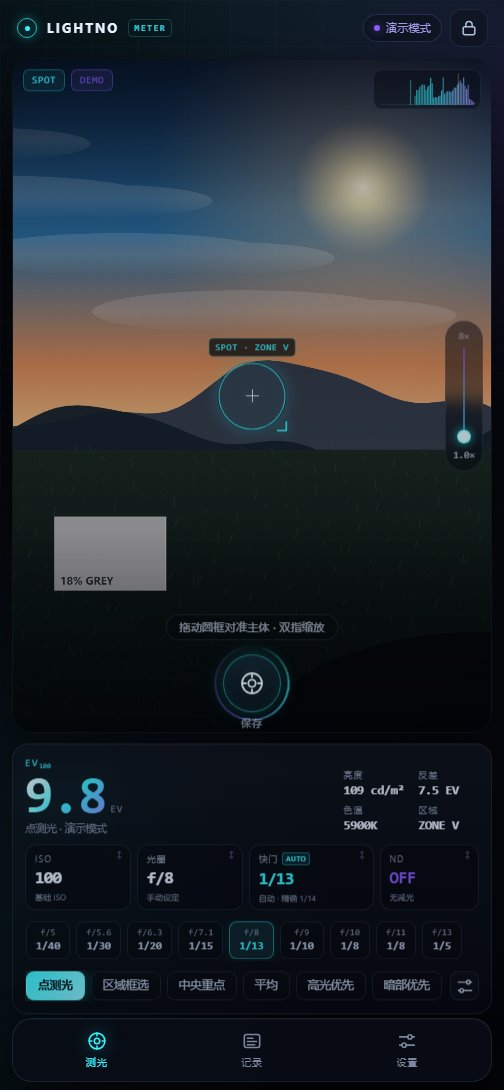
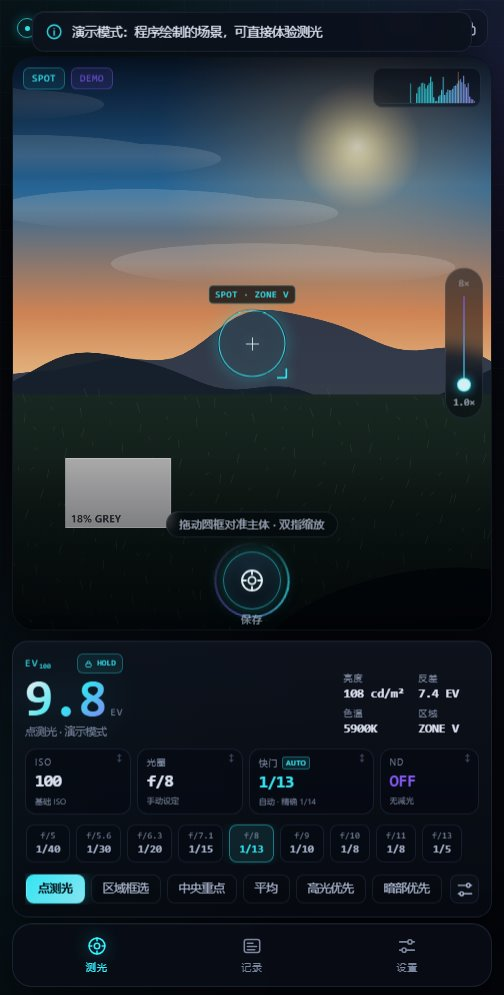
add holde

diff --git a/js/ui/meter.js b/js/ui/meter.js
@@ -82,6 +82,10 @@ const dom = {
   demoBtn: $('#btnDemo'),
   evValue: $('#evValue'),
   evSub: $('#evSub'),
+  evHold: $('#evHold'),
+  evHoldText: $('#evHoldText'),
+  evLockIcon: $('#evLockIcon'),
+  readoutPanel: $('#readoutPanel'),
   metricLum: $('#metricLum'),
   metricDr: $('#metricDr'),
   metricCct: $('#metricCct'),
@@ -171,6 +175,25 @@ function updateStatus() {
   setText(dom.statusText, sourceLabel(rt.source));
   dom.tagDemo.hidden = rt.source !== 'demo';
   dom.tagLock.hidden = !rt.locked;
+  syncHoldUI();
+}
+
+/** 同步 HOLD 视觉状态（EV 按钮 / 面板 / 顶栏锁 / 阶段标签） */
+function syncHoldUI() {
+  const locked = !!getRuntime().locked;
+  if (dom.evHold) {
+    dom.evHold.classList.toggle('is-held', locked);
+    dom.evHold.setAttribute('aria-pressed', String(locked));
+    dom.evHold.setAttribute('aria-label', locked ? '解除测光锁定' : '锁定测光读数');
+  }
+  if (dom.evHoldText) dom.evHoldText.textContent = locked ? '解除' : 'HOLD';
+  if (dom.evLockIcon) dom.evLockIcon.hidden = !locked;
+  if (dom.readoutPanel) dom.readoutPanel.classList.toggle('is-held', locked);
+  if (dom.btnLock) {
+    dom.btnLock.classList.toggle('is-held', locked);
+    dom.btnLock.setAttribute('aria-pressed', String(locked));
+    dom.btnLock.setAttribute('aria-label', locked ? '解除测光锁定' : '锁定测光');
+  }
 }
 
 function showCameraError(err) {
@@ -222,6 +245,15 @@ async function startCamera() {
     updateZoomRange();
     updateStatus();
     await applyZoom(getSettings().zoom);
+
+    if (getRuntime().locked && lockSnapshot && lockSnapshot.cameraExposure && camera.manual) {
+      try {
+        await camera.setExposure(lockSnapshot.cameraExposure);
+      } catch {
+        /* ignore */
+      }
+    }
+
     lastAe = 0;
 
     if (!result.manual) {
@@ -517,8 +549,10 @@ function onFrame(now) {
     currentZoneValue = measured.zoneValue;
   }
 
-  updateZebra(result, s);
-  drawHistogram(result, s);
+  if (!rt.locked) {
+    updateZebra(result, s);
+    drawHistogram(result, s);
+  }
   updateReadout();
   schedule();
 }
@@ -704,8 +738,11 @@ function updateReadout(force = false) {
 
   setText(dom.evValue, formatEv(ev, 1));
 
-  const lockText = locked ? ' · 已锁定' : '';
-  setText(dom.evSub, `${MODE_META[s.mode].label} · ${sourceLabel(rt.source)}${lockText}`);
+  if (locked) {
+    setText(dom.evSub, '已锁定 · 点按解除后重新测光');
+  } else {
+    setText(dom.evSub, `${MODE_META[s.mode].label} · ${sourceLabel(rt.source)}`);
+  }
 
   setText(dom.metricLum, formatLuminance(luminanceFromEv(ev)));
   dom.metricLum.classList.toggle('is-warn', data.frame.clip > 0.02);
@@ -758,7 +795,9 @@ function updateReadout(force = false) {
   setText(dom.valNdNote, nd > 0 ? `${ndDensity(nd)} 密度 · ${nd.toFixed(1)} 档` : '无减光');
 
   const clip = data.frame.clip;
-  if (clip > 0.03) {
+  if (locked) {
+    setText(dom.hudHint, 'HOLD · 移动手机不会改变读数');
+  } else if (clip > 0.03) {
     setText(dom.hudHint, `高光溢出 ${(clip * 100).toFixed(1)}% · 试试高光优先或降低相机曝光`);
   } else {
     setText(dom.hudHint, MODE_META[s.mode].hint + ' · 双指缩放');
@@ -795,18 +834,29 @@ function toggleLock() {
       toast('还没有有效读数', { type: 'warn', duration: 1800 });
       return;
     }
-    lockSnapshot = { ev: evSmooth, stats, zoneValue: currentZoneValue };
+    const ex = camera && camera.isActive ? camera.getExposure() : null;
+    lockSnapshot = {
+      ev: evSmooth,
+      stats,
+      zoneValue: currentZoneValue,
+      cameraExposure:
+        ex && Number.isFinite(ex.shutter) && Number.isFinite(ex.iso)
+          ? { shutter: ex.shutter, iso: ex.iso }
+          : null
+    };
   } else if (lockSnapshot) {
     evSmooth = lockSnapshot.ev;
     lockSnapshot = null;
+    lastAe = 0;
   }
   setRuntime({ locked: next });
-  dom.btnLock.setAttribute('aria-pressed', String(next));
   updateStatus();
   updateZone();
   updateReadout(true);
   hapticTap();
-  toast(next ? '测光已锁定 · 可以重新构图' : '已解除锁定', { duration: 1400 });
+  toast(next ? '已锁定读数 · 可以移动手机设置相机' : '已解除锁定 · 继续测光', {
+    duration: next ? 2600 : 1600
+  });
 }
 
 function handleZoneChange(patch) {
@@ -1305,6 +1355,7 @@ function initInteractions() {
   });
 
   dom.btnLock.addEventListener('click', toggleLock);
+  if (dom.evHold) dom.evHold.addEventListener('click', toggleLock);
 
   dom.modeRow.querySelectorAll('.mode').forEach((btn) => {
     btn.addEventListener('click', () => {

diff --git a/index.html b/index.html
@@ -74,7 +74,7 @@
               <div class="hud-tags">
                 <span class="tag tag--mode" id="tagMode">SPOT</span>
                 <span class="tag" id="tagZoom" hidden>1.0×</span>
-                <span class="tag tag--lock" id="tagLock" hidden>LOCK</span>
+                <span class="tag tag--lock" id="tagLock" hidden>HOLD</span>
                 <span class="tag tag--demo" id="tagDemo" hidden>DEMO</span>
               </div>
               <canvas class="hist" id="histogram" width="128" height="46" aria-hidden="true"></canvas>
@@ -124,16 +124,46 @@
             </div>
           </div>
 
-          <div class="panel panel--readout">
+          <div class="panel panel--readout" id="readoutPanel">
             <div class="readout">
-              <div class="ev">
-                <span class="ev__key">EV<sub>100</sub></span>
-                <div class="ev__line">
+              <button
+                class="ev"
+                id="evHold"
+                type="button"
+                aria-pressed="false"
+                aria-label="锁定测光读数"
+                title="锁定 / 解除当前读数"
+              >
+                <span class="ev__top">
+                  <span class="ev__key">EV<sub>100</sub></span>
+                  <span class="ev__hold" id="evHoldPill">
+                    <svg viewBox="0 0 24 24" width="9" height="9" fill="none" stroke="currentColor" stroke-width="2.2">
+                      <rect x="5" y="10.5" width="14" height="9.5" rx="2.2" />
+                      <path d="M8.2 10.5V8a3.8 3.8 0 017.6 0v2.5" stroke-linecap="round" />
+                    </svg>
+                    <i id="evHoldText">HOLD</i>
+                  </span>
+                </span>
+                <span class="ev__line">
                   <span class="ev__value" id="evValue">--.-</span>
                   <span class="ev__unit">EV</span>
-                </div>
+                  <svg
+                    class="ev__lockicon"
+                    id="evLockIcon"
+                    viewBox="0 0 24 24"
+                    width="15"
+                    height="15"
+                    fill="none"
+                    stroke="currentColor"
+                    stroke-width="2"
+                    hidden
+                  >
+                    <rect x="5" y="10.5" width="14" height="9.5" rx="2.2" />
+                    <path d="M8.2 10.5V8a3.8 3.8 0 017.6 0v2.5" stroke-linecap="round" />
+                  </svg>
+                </span>
                 <span class="ev__sub" id="evSub">正在启动相机…</span>
-              </div>
+              </button>
               <div class="metrics">
                 <div class="metric"><span>亮度</span><b id="metricLum">—</b></div>
                 <div class="metric"><span>反差</span><b id="metricDr">—</b></div>

diff --git a/css/components.css b/css/components.css
@@ -139,6 +139,13 @@
   box-shadow: 0 0 16px rgba(55, 242, 255, 0.16);
 }
 
+.icon-btn.is-held {
+  color: var(--amber);
+  border-color: rgba(255, 199, 92, 0.45);
+  background: rgba(255, 199, 92, 0.1);
+  box-shadow: 0 0 16px rgba(255, 199, 92, 0.16);
+}
+
 .icon-btn:active {
   transform: scale(0.94);
 }
@@ -170,6 +177,17 @@
   color: var(--amber);
   border-color: rgba(255, 199, 92, 0.4);
   background: rgba(255, 199, 92, 0.1);
+  animation: hold-glow 2.4s ease-in-out infinite;
+}
+
+@keyframes hold-glow {
+  0%,
+  100% {
+    box-shadow: 0 0 0 rgba(255, 199, 92, 0);
+  }
+  50% {
+    box-shadow: 0 0 14px rgba(255, 199, 92, 0.3);
+  }
 }
 
 .tag--demo {
@@ -197,6 +215,11 @@
   flex: 0 0 auto;
 }
 
+.panel--readout.is-held {
+  border-color: rgba(255, 199, 92, 0.34);
+  box-shadow: var(--shadow), 0 0 0 1px rgba(255, 199, 92, 0.12), 0 0 28px rgba(255, 199, 92, 0.08);
+}
+
 /* 读数 */
 .readout {
   display: flex;
@@ -210,6 +233,79 @@
   flex-direction: column;
   gap: 1px;
   min-width: 0;
+  padding: 0;
+  border: 0;
+  background: none;
+  color: inherit;
+  text-align: left;
+  cursor: pointer;
+  border-radius: 10px;
+  -webkit-tap-highlight-color: transparent;
+  transition: transform 0.12s ease;
+}
+
+.ev:active {
+  transform: scale(0.995);
+}
+
+.ev__top {
+  display: flex;
+  align-items: center;
+  justify-content: space-between;
+  gap: 8px;
+  width: 100%;
+}
+
+.ev__hold {
+  display: inline-flex;
+  align-items: center;
+  gap: 4px;
+  height: 20px;
+  padding: 0 6px;
+  border-radius: 6px;
+  border: 1px solid rgba(55, 242, 255, 0.32);
+  background: rgba(55, 242, 255, 0.08);
+  color: var(--cyan);
+  font-family: var(--mono);
+  font-size: 7.5px;
+  letter-spacing: 0.08em;
+  white-space: nowrap;
+  transition: color 0.18s ease, border-color 0.18s ease, background 0.18s ease;
+}
+
+.ev__hold svg {
+  flex: none;
+}
+
+.ev__hold i {
+  font-style: normal;
+}
+
+.ev:hover .ev__hold {
+  border-color: rgba(55, 242, 255, 0.55);
+}
+
+.ev.is-held .ev__hold {
+  color: var(--amber);
+  border-color: rgba(255, 199, 92, 0.55);
+  background: rgba(255, 199, 92, 0.12);
+  box-shadow: 0 0 12px rgba(255, 199, 92, 0.16);
+}
+
+.ev.is-held .ev__value {
+  background: linear-gradient(135deg, #fff6e2 8%, #ffc75c 55%, #ff9d5c 110%);
+  filter: drop-shadow(0 0 20px rgba(255, 199, 92, 0.28));
+}
+
+.ev__lockicon {
+  flex: none;
+  align-self: center;
+  color: var(--amber);
+  filter: drop-shadow(0 0 8px rgba(255, 199, 92, 0.5));
+}
+
+.ev.is-held .ev__sub {
+  color: rgba(255, 199, 92, 0.8);
 }
 
 .ev__key {

diff --git a/js/ui/pickers.js b/js/ui/pickers.js
@@ -586,6 +586,13 @@ export function openOnboarding({ onDone } = {}) {
           <p>ISO、光圈、快门、ND 都支持上下滑动 / 鼠标滚轮，滑动时会显示相邻档位。调<b>光圈</b>进入光圈优先，测光自动改快门；调<b>快门</b>进入快门优先，测光自动改光圈。</p>
         </div>
       </div>
+      <div class="onboard__item">
+        <span class="onboard__num">06</span>
+        <div>
+          <b>HOLD 锁定读数</b>
+          <p>测完光点一下 <b>EV 数字</b>（或右上角锁 / 双击画面）即可 HOLD：读数、直方图、斑马纹都会冻结，移动手机去设置相机也不会变。点「解除」继续测光。</p>
+        </div>
+      </div>
     </div>
     <p class="picker-note" style="margin-top:14px">
       没有相机权限？可以在取景框的提示里进入演示模式，先熟悉界面与读数。
